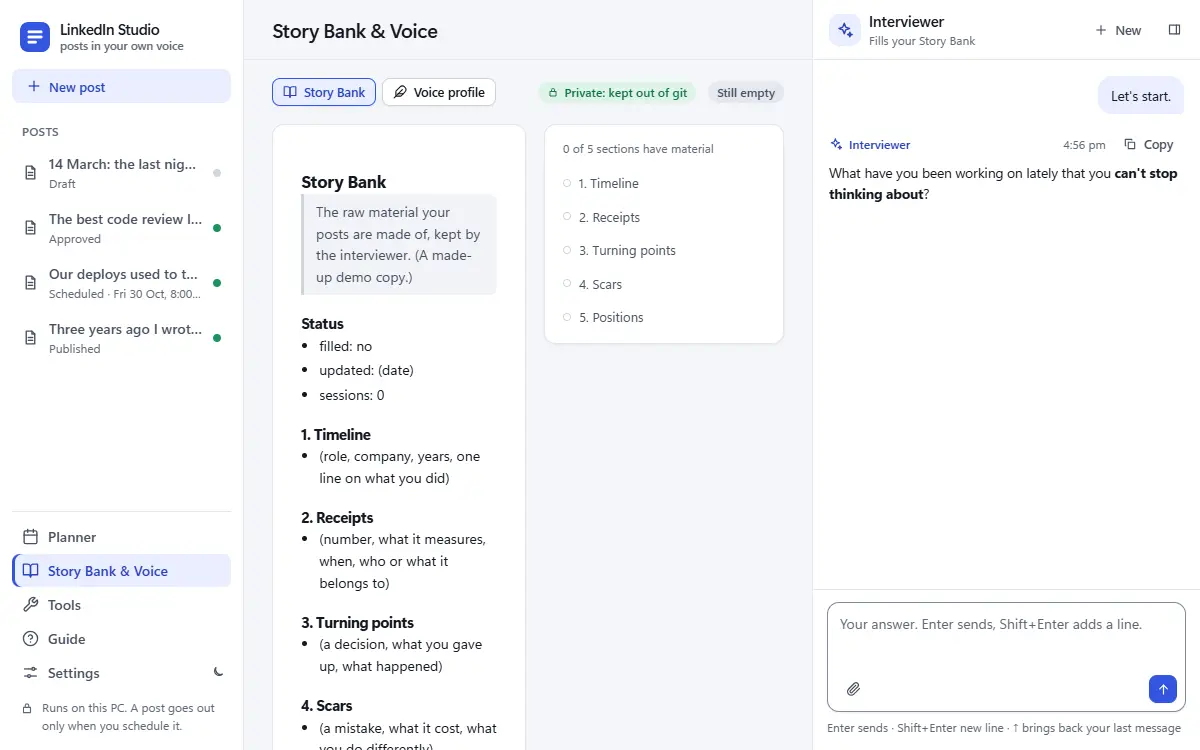
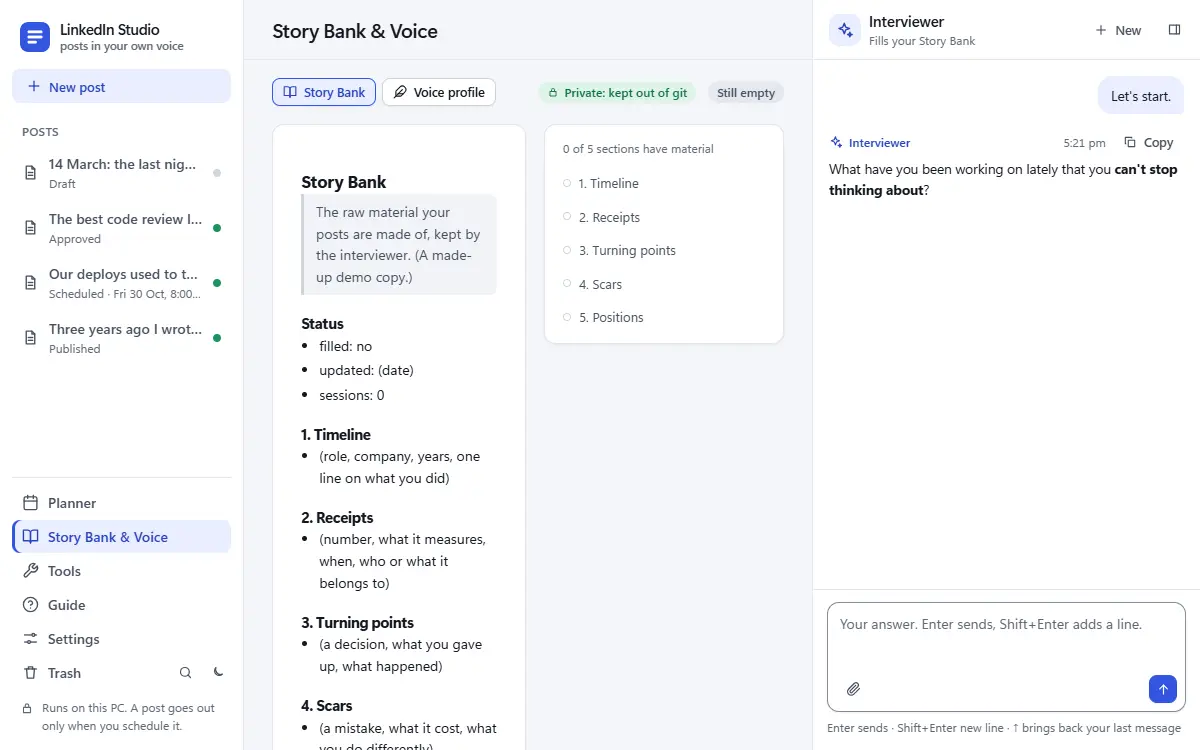
Integrate the Trash, keys and pages packages: the palette loaded, the Guide's Trash and fresh pictures, two fixes
- index.html loads the command palette (js/palette.js).
- The Guide: a Trash card, and Edit text, Copy and Copy first comment on the post's card. Its 14
  pictures were retaken on the merged page, the Trash's among them; the README shows three.
- Asking for a post whose answer is still on its way asks once more after it (post.js loadPost),
  so a save, Approve's refusal or Claude's rewrite never waits for the next poll.
- A post opened again after another page draws its top bar's next step again: route() cleared the
  buttons but the drawn-once memo kept them from coming back (also on master).
- The demo's Publora stand-in now writes through the app's own database object, so Approve and
  Back to draft move the demo page's poll (Ask Claude's locked words came late or never).
- publishing.py refuses a post in the Trash in Schedule and Retry too, under the API's refusal.
- Tests: test_security follows /api/posts/new's {id, post}; new checks that Publora never gets a
  post in the Trash, that the top bar keeps its next step after another page, and that Ask Claude
  follows Back to draft and Approve.
- README and CLAUDE.md: the Trash and where its posts live, the browser checks, the day's entry.

diff --git a/app/static/js/post.js b/app/static/js/post.js
@@ -8,27 +8,47 @@ import { renderPost, saveNow, noticeBox, nextBlank, editorState } from "./editor
 import { statusOf, renderList, openNew } from "./sidebar.js";
 
 let shown = null;      // the post as the studio last said it
-let asking = 0;        // the post being asked for: asking again for it waits for that answer; another post does not
+let asking = 0;        // the post being asked for, while its answer is on the way
+let answer = null;     // that answer
+let again = null;      // asked for the same post meanwhile: one more ask once that answer is in
+let againFor = 0, againLoud = false;
 
-export async function loadPost(id, { quiet = false } = {}) {
-  if (asking === id) return;
-  asking = id;
-  if (shown && shown.id !== id) shown = null;   // the gear and the top bar never act on the post shown before
-  try {
-    const data = await api(`/api/post/${id}`);
-    if (state.postId !== id) return;
-    if (data.error) {
-      if (data.gone || data.trashed) return void lost(id, data.trashed);
-      if (!quiet) announce(data.error, { urgent: true });
-      return;
+// Asking again for the post whose answer is on the way never drops the ask: that answer may predate a change just made
+// (Approve refused, a save, Claude's rewrite), so it asks once more after it, and every caller waits for that.
+export function loadPost(id, { quiet = false } = {}) {
+  if (asking === id) {
+    if (againFor !== id) {
+      againFor = id;
+      againLoud = false;
+      again = answer.then(() => askAgain(id));
     }
-    shown = data;
-    renderPost(data, () => loadPost(id, { quiet: true }));   // makes the stage (and its notice) the first time
-    renderTop(data);
-    renderNotice(data);
-  } finally {
-    if (asking === id) asking = 0;
+    againLoud ||= !quiet;
+    return again;
   }
+  asking = id;
+  answer = fetchPost(id, quiet).finally(() => { if (asking === id) asking = 0; });
+  return answer;
+}
+
+function askAgain(id) {
+  const loud = againLoud;
+  if (againFor === id) { againFor = 0; again = null; againLoud = false; }
+  return state.postId === id ? loadPost(id, { quiet: !loud }) : undefined;
+}
+
+async function fetchPost(id, quiet) {
+  if (shown && shown.id !== id) shown = null;   // the gear and the top bar never act on the post shown before
+  const data = await api(`/api/post/${id}`);
+  if (state.postId !== id) return;
+  if (data.error) {
+    if (data.gone || data.trashed) return void lost(id, data.trashed);
+    if (!quiet) announce(data.error, { urgent: true });
+    return;
+  }
+  shown = data;
+  renderPost(data, () => loadPost(id, { quiet: true }));   // makes the stage (and its notice) the first time
+  renderTop(data);
+  renderNotice(data);
 }
 
 // The post went (to the Trash, or for good) while it was open: it leaves the list, and the page goes, once and quietly,

diff --git a/app/static/app.js b/app/static/app.js
@@ -1,7 +1,7 @@
 // The studio's page, its entry (a module: no build step, nothing from outside this PC). Here: the pages and the address
 // they follow (#post-<id>, #~planner, #~bank, #~voice, #~tools, #~guide, #~settings, #~trash, #~setup), asking the studio
 // what changed and having each area draw it, and the start. Each area is its module in js/.
-import { $, state, h, icon, api, put, setTitle, polled, lost, go, banner, focusFirst } from "./js/core.js";
+import { $, state, h, icon, api, put, setTitle, polled, lost, go, banner, focusFirst, forget } from "./js/core.js";
 import { renderList, takeMade, init as initSidebar } from "./js/sidebar.js";
 import { loadPost, forgetRefusal, init as initPost } from "./js/post.js";
 import { showFor, refresh as refreshChat, init as initAssist } from "./js/assist.js";
@@ -55,6 +55,7 @@ async function route() {
   state.postId = null;
   $("postGear").hidden = true;
   $("topActions").replaceChildren();
+  forget($("topActions"));   // so the same post, opened again unchanged, draws its buttons again
   $("status").replaceChildren();
   const [page, sub] = mark.startsWith("~") ? mark.slice(1).split("-") : ["posts"];
   if (PAGES[page]) {

diff --git a/app/static/app.css b/app/static/app.css
@@ -400,6 +400,7 @@ del { background: var(--del); color: var(--del-ink); border-radius: 3px; }
 .msg-files { display: flex; flex-wrap: wrap; justify-content: flex-end; gap: 6px; max-width: 92%; }
 .msg-who { display: flex; align-items: center; gap: 6px; margin-bottom: 4px; font-size: 12px; font-weight: 600; color: var(--accent-ink); }
 .msg-who time { margin-left: auto; font-weight: 400; color: var(--text-3); font-variant-numeric: tabular-nums; }
+.msg-who .btn { height: 24px; }
 .msg-meta { margin-top: 6px; font-size: 11.5px; color: var(--text-3); }
 .msg.info { font-size: 12.5px; color: var(--text-3); text-align: center; }
 .msg.error { display: flex; gap: 8px; padding: 10px 12px; border-radius: 10px; background: var(--bad-soft); color: var(--bad); }

diff --git a/app/static/index.html b/app/static/index.html
@@ -96,5 +96,6 @@
   <div id="announce" class="sr-only" role="status"></div>
   <div id="alarm" class="sr-only" role="alert"></div>
   <script type="module" src="/static/app.js"></script>
+  <script type="module" src="/static/js/palette.js"></script>
 </body>
 </html>

diff --git a/app/guide.py b/app/guide.py
@@ -110,6 +110,8 @@ SCREENS = [
                 "characters and its picture.",
                 "Click the text to edit it there. The meter shows your length against the {target_min}-{target_max} "
                 "sweet spot.",
+                "Edit text opens the editor from the keyboard. Copy and Copy first comment copy the words as they "
+                "will go out.",
                 "The top bar says where it stands and holds the next step: Approve, then Schedule…",
                 "The gear holds the title, Versions to go back to (your own edits are kept too), New draft from "
                 "this and Move to Trash…; scheduled and published posts stay out of the Trash."]},
@@ -146,6 +148,13 @@ SCREENS = [
                 "ChatGPT: who is signed in for pictures, and how many were made today.",
                 "Connections confirms your Publora key works. Run it after changing .env.",
                 "Recent runs lists every Claude run and how long it took."]},
+    {"key": "trash", "title": "Trash", "href": "#~trash", "icon": "trash",
+     "purpose": "The posts you moved out of the way, kept until you say otherwise.",
+     "points": ["Move to Trash… in a post's gear sends a draft, approved, failed or cancelled post here, with its "
+                "versions, chat and pictures.",
+                "Put back returns it to your posts as it was.",
+                "Delete forever… and Empty trash ask first and name what goes. Scheduled and published posts never "
+                "come here: cancel a scheduled one on Publora first."]},
 ]
 
 # The text in the "Try the editor" box. Two blanks, so Next blank has something to find.

diff --git a/tests/test_browser_keys.py b/tests/test_browser_keys.py
@@ -104,6 +104,34 @@ def test_the_post_is_read_as_its_text_with_an_edit_text_button(studio):
 
 
 @needs_browser
+def test_the_top_bar_keeps_its_next_step_after_another_page(studio):
+    """Another page clears the top bar; the same post, opened again unchanged, draws its next step again."""
+    page, errors = studio
+    draft = open_draft(page)
+    page.wait_for_selector('#topActions [data-act="approve"]')
+    for leave in ("#goPlanner", "#goTrash"):
+        page.click(leave)
+        page.wait_for_function("() => !location.hash.startsWith('#post-')")
+        page.click(f'#list [data-post="{draft}"]')
+        page.wait_for_selector('#topActions [data-act="approve"]', timeout=5000)
+    assert errors == []
+
+
+@needs_browser
+def test_back_to_draft_and_approve_reach_ask_claude_at_the_next_poll(studio):
+    """Publora's side of a post (Approve, Back to draft) moves the page's poll too: Ask Claude's panel follows it."""
+    page, errors = studio
+    page.locator("#list .nav-item", has_text="The best code review").first.click()
+    locked = "() => document.querySelector('#assistEmpty').innerText.includes('locked')"
+    page.wait_for_function(locked, timeout=6000)
+    page.locator('#topActions [data-act="back"]').click()
+    page.wait_for_function(f"() => !({locked})()", timeout=6000)
+    page.locator('#topActions [data-act="approve"]').click()
+    page.wait_for_function(locked, timeout=6000)
+    assert errors == []
+
+
+@needs_browser
 def test_the_focus_stays_put_through_polls(studio):
     page, errors = studio
     draft = open_draft(page)

diff --git a/app/publishing.py b/app/publishing.py
@@ -275,6 +275,8 @@ class Publisher:
             row = con.execute("SELECT * FROM posts WHERE id=?", (post_id,)).fetchone()
             if row is None:
                 raise ScheduleError("No such post.")
+            if row["trashed_at"]:   # the API refuses it first; this keeps the Trash out of Publora whoever calls
+                raise ScheduleError("That post is in the Trash. Put it back first.")
             if row["publora_post_id"]:
                 raise ScheduleError("This post already exists on Publora; it will not be sent again.")
             if row["status"] != "approved":
@@ -306,6 +308,8 @@ class Publisher:
             row = con.execute("SELECT * FROM posts WHERE id=?", (post_id,)).fetchone()
             if row is None or row["status"] != "failed" or row["publora_post_id"] or not row["publora_payload"]:
                 raise ScheduleError("Only a post whose schedule call failed can be retried.")
+            if row["trashed_at"]:
+                raise ScheduleError("That post is in the Trash. Put it back first.")
             if picture:
                 if row["media_step"] not in MEDIA_STEPS:
                     raise ScheduleError("This post was sent without a picture. Move it back to draft to add one.")

diff --git a/tests/test_publishing.py b/tests/test_publishing.py
@@ -184,6 +184,20 @@ def test_only_approved_posts_can_be_scheduled(setup):
     assert client.calls == []
 
 
+def test_a_post_in_the_trash_never_reaches_publora(setup):
+    """Belt and braces under the API's own refusal: neither Schedule nor Retry sends a post that is in the Trash."""
+    db, pub, client = setup
+    approved, failed = new_post(db), new_post(db, status="failed")
+    db.run("UPDATE posts SET publora_payload='{\"content\":\"x\"}', idempotency_key='k' WHERE id=?", (failed,))
+    db.run("UPDATE posts SET trashed_at=? WHERE id IN (?,?)", (utcnow(), approved, failed))
+    with pytest.raises(ScheduleError, match="Trash"):
+        pub.schedule(approved, "2026-10-08T09:00", None)
+    with pytest.raises(ScheduleError, match="Trash"):
+        pub.retry(failed)
+    assert client.calls == []
+    assert [r["status"] for r in db.all("SELECT status FROM posts ORDER BY id")] == ["approved", "failed"]
+
+
 def test_timeout_then_retry_resends_identical_body_and_key(setup):
     db, pub, client = setup
     client.fail = requests.Timeout("read timed out")

diff --git a/dev/demo_server.py b/dev/demo_server.py
@@ -292,8 +292,9 @@ def main() -> None:
     db = DB(db_path)
     if fresh and "--empty" not in args and "--db" not in args:
         seed(db)
-    app = create_app(cfg, "demo", db_path=db_path, runner=ScriptedRunner(cfg.story_bank),
-                     publisher=Publisher(db, cfg, client_factory=lambda publora=ScriptedPublora(): publora))
+    publisher = Publisher(db, cfg, client_factory=lambda publora=ScriptedPublora(): publora)
+    app = create_app(cfg, "demo", db_path=db_path, runner=ScriptedRunner(cfg.story_bank), publisher=publisher)
+    publisher.db = app.state.db   # the app's own, as in the real app: Approve, Schedule… and the rest move the page's poll
     print(json.dumps({"url": f"http://127.0.0.1:{port}/auth?token=demo", "folder": str(folder), "started": db.started}), flush=True)
     uvicorn.run(app, host="127.0.0.1", port=port, log_config=None, access_log=False)
 

diff --git a/tests/test_security.py b/tests/test_security.py
@@ -67,7 +67,7 @@ def test_a_change_from_another_origin_is_rejected(client, origin):
 
 def test_a_change_from_our_origin_is_accepted(client, cfg):
     r = signed_in(client).post("/api/posts/new", json={}, headers={"Origin": cfg.origin})
-    assert r.status_code == 200 and r.json() == {"id": 1}
+    assert r.status_code == 200 and r.json()["id"] == 1
 
 
 def test_referer_is_the_fallback(client, cfg):

diff --git a/CLAUDE.md b/CLAUDE.md
@@ -42,6 +42,10 @@ username in them).
   it is stored. Settings, the Planner (`claude.sign_in`) and the setup screen show it; Save refuses
   a login folder signed in to nobody, and an unreadable answer never blocks. Tests answer it with
   `tests/fake_claude.py` only.
+- **The Trash keeps posts, never sends them.** A post in it is `posts.trashed_at`, refused by every post endpoint
+  (`api_posts.find`), by the studio's tools (`mcp.py`) and by `Publisher.schedule`/`retry`. Scheduled, sending and
+  published posts, a post Publora holds a draft of, and a post Claude is working on are never moved there. Delete
+  forever and Empty trash need `confirmed: true`, touch only posts in the Trash, and the page names what goes first.
 - **A locked post's chat** (anything but a draft) is offered no `set_post_text` and no
   `make_image` (`flows.post_chat_tools`): no rewrite and no ChatGPT picture is spent on a post
   that cannot change.
@@ -56,21 +60,23 @@ username in them).
 | Where | What |
 |---|---|
 | `app/main.py` | `create_app`: the middleware, `/api/state` (posts, jobs, what changed), jobs, images, `/mcp` |
-| `app/api_posts.py` | A post: save, audit, revise, approve, schedule, retry, cancel, versions, picture, its chat and attachments |
+| `app/api_posts.py` | A post: save, audit, revise, approve, schedule, retry, cancel, versions, picture, its chat and attachments, Move to Trash, New draft from this |
+| `app/api_trash.py` | The Trash: its list, Put back, Delete forever and Empty trash (confirmed); a post in the Trash is `posts.trashed_at`, and `api_posts.find` refuses it everywhere |
 | `app/api_pages.py` | Planner, Story Bank & Voice chats, Tools, Settings (ChatGPT card, Claude's account), setup, Guide (its pictures) |
 | `app/jobs.py`, `app/flows.py` | One job at a time with its numbered steps; what each job does when it ends |
 | `app/skills.py`, `app/claude_runner.py` | Each action's skill, prompt and tools; the `claude -p` command, its env and MCP config |
 | `app/mcp.py`, `app/codex.py` | The post chat's tools (`set_post_text`, `make_image`, `record_audit`, `fetch_post`); ChatGPT's pictures through `codex.exe` |
 | `app/publishing.py` | Publora: schedule (with a picture), retry, back to draft, check |
 | `app/versions.py`, `app/images.py`, `app/attached.py` | A post's versions, its pictures, a chat's attached files |
-| `app/static/` | `index.html`, `app.css`, `app.js` and `js/` (core, sidebar, editor, post, assist, planner, bank, tools, settings, guide, jobs, md) |
+| `app/static/` | `index.html`, `app.css`, `app.js` and `js/` (core, sidebar, editor, post, assist, planner, bank, tools, settings, guide, jobs, md, audit, palette, trash) |
 | `dev/demo_server.py` | The page on made-up data with stand-ins for Claude (and its sign-in), Publora and ChatGPT |
 | `dev/guide_shots.py` | The Guide's pictures, taken on the demo into `app/static/guide/` |
 
 ## Working here
 
 - Windows. `.venv\Scripts\python -m pytest`; run the files you touched, the whole suite once at
-  the end. `tests/test_browser.py` needs `requirements-dev.txt` (Playwright) and Chrome or Edge.
+  the end. The browser checks (`tests/test_browser*.py`) need `requirements-dev.txt` (Playwright)
+  and Chrome or Edge; without Playwright they are skipped, silently.
 - Look at the page through `dev/demo_server.py`: nothing real is touched.
 - The Guide's words live in `app/guide.py` (figures passed in from the code that enforces them;
   `SHORTCUTS` is the one list of keys, which the page's ? dialog reads too) and its pictures in
@@ -89,3 +95,17 @@ username in them).
   (`dev/guide_shots.py`).
 - Ask Claude on a locked post, the Claude account in Settings and setup, Settings' sections with
   addresses, and the Trash (Put back, Delete forever…, Empty trash).
+- Later the same day, the owner's other studios' tweaks: the Trash (`app/api_trash.py`,
+  `js/trash.js`; the API, the studio's tools and `publishing.py` all refuse a post in it), New
+  draft from this, your own edits kept as versions (a big cut, leaving the text, Approve), the
+  title saved alone; the command palette (Ctrl+K, `js/palette.js`), Alt+N, Ctrl+/, Alt+↑/↓, ?,
+  skip links; the post read aloud as text with an Edit text button, the focus kept through polls
+  and redraws, a real menu for Revise and real tabs in Tools, one audit view (`js/audit.js`),
+  Copy and Copy first comment, toasts clear of Send; three columns from 941 to 1,180 px and a
+  maximized window; a request for a post already on its way asks once more after it
+  (`post.js loadPost`), so no change waits for the next poll. The Guide's pictures were retaken on
+  the merged page, the Trash's among them.
+- Two fixes found on the merged page: a post opened again after another page lost its top bar's
+  next step (`route()` now forgets the drawn buttons), and the demo's Publora stand-in wrote
+  through a second database object, so Approve and Back to draft never moved the demo page's poll
+  (`dev/demo_server.py` hands it the app's own).

diff --git a/README.md b/README.md
@@ -19,6 +19,22 @@ One window in three columns. **New to it? Open Guide in the sidebar**: it shows 
 steps you can click through, each with a picture of where it happens, what happens while Claude
 works, a post's four states, and an editor to practise in.
 
+<picture>
+  <source media="(prefers-color-scheme: dark)" srcset="app/static/guide/post-dark.webp">
+  <img src="app/static/guide/post-light.webp" width="900" alt="A post as LinkedIn shows it, with the sidebar of posts on the left and Ask Claude on the right">
+</picture>
+
+<picture>
+  <source media="(prefers-color-scheme: dark)" srcset="app/static/guide/chat-dark.webp">
+  <img src="app/static/guide/chat-light.webp" width="445" alt="Ask Claude at work: each step numbered while it runs">
+</picture>
+<picture>
+  <source media="(prefers-color-scheme: dark)" srcset="app/static/guide/trash-dark.webp">
+  <img src="app/static/guide/trash-light.webp" width="445" alt="The Trash, with Put back and Delete forever…">
+</picture>
+
+*Made-up demo data; the Guide's own pictures, retaken by `dev\guide_shots.py`.*
+
 - **The sidebar** lists your posts, each with its first line and its state: drafts first, then
   approved, scheduled (soonest first) and published. **New post** starts one. Below the list:
   Planner, Story Bank & Voice, Tools, Guide, Settings, Trash, and the light/dark switch.
@@ -38,8 +54,9 @@ works, a post's four states, and an editor to practise in.
 
 **Editing a post**
 
-- **Autosave.** Click the text and type: it saves about a second after you stop (Ctrl+S saves
-  at once).
+- **Autosave.** Click the text (or press **Edit text**) and type: it saves about a second after
+  you stop (Ctrl+S saves at once). **Copy** and **Copy first comment** copy the words as they go
+  out.
 - **Character meter.** Where the post sits against the 900-1,300 sweet spot and LinkedIn's 3,000
   limit.
 - **Blanks.** The writer marks facts it does not have as `[N]` or `[DD Month YYYY]`. The editor
@@ -202,6 +219,7 @@ test fails if a tracked file ever looks like one of those or like a real Publora
 | What | Where |
 |---|---|
 | Plans, posts, their versions, chats, job log | `data\studio.db` (SQLite) |
+| Posts in the Trash, with their versions, chats and pictures | the same `data\studio.db` and `data\images\`, until **Delete forever…** or **Empty trash** |
 | Post pictures (made or attached) | `data\images\` |
 | Files attached in a chat | `data\attachments\<chat>\` |
 | Pictures made per day, Codex's sign-in log | `data\chatgpt.json`, `data\chatgpt.log` |
@@ -307,8 +325,9 @@ in-between state can be looked at without spending anything (`--empty` starts it
 - `app\attachments.py`, `app\static\attach.js` and `attach.css` (and `tests\test_attachments.py`)
   are shared byte for byte with other studios built like this one: change them there, never here
   alone.
-- `tests\test_browser.py` and `tests\test_browser_pages.py` drive the page in Chrome or Edge
-  through Playwright, on the demo server; they are skipped when neither is installed.
+- `tests\test_browser.py`, `test_browser_keys.py` and `test_browser_pages.py` drive the page in
+  Chrome or Edge through Playwright, on the demo server; they are skipped when Playwright or
+  both browsers are missing.
 - **The Guide's pictures** (`app\static\guide\`) are taken on the demo, never on your own data:
   `.venv\Scripts\python dev\guide_shots.py` starts the demo in a folder that names no one, uses
   the page as a person would and saves each screen in light and dark, small, as WebP. It never
